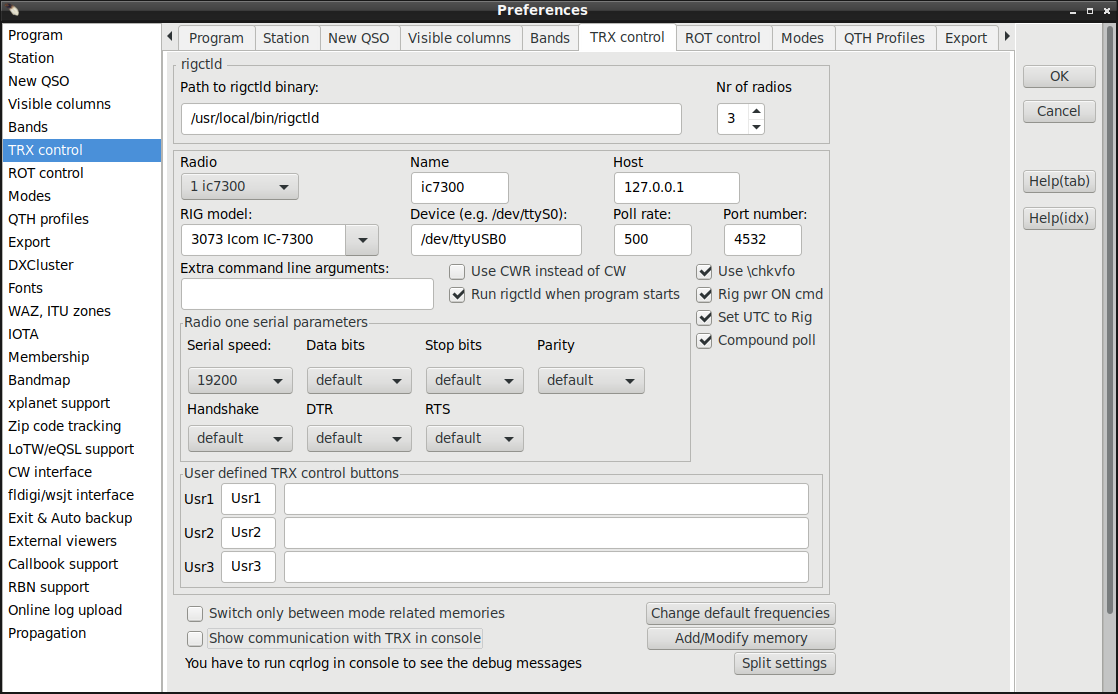
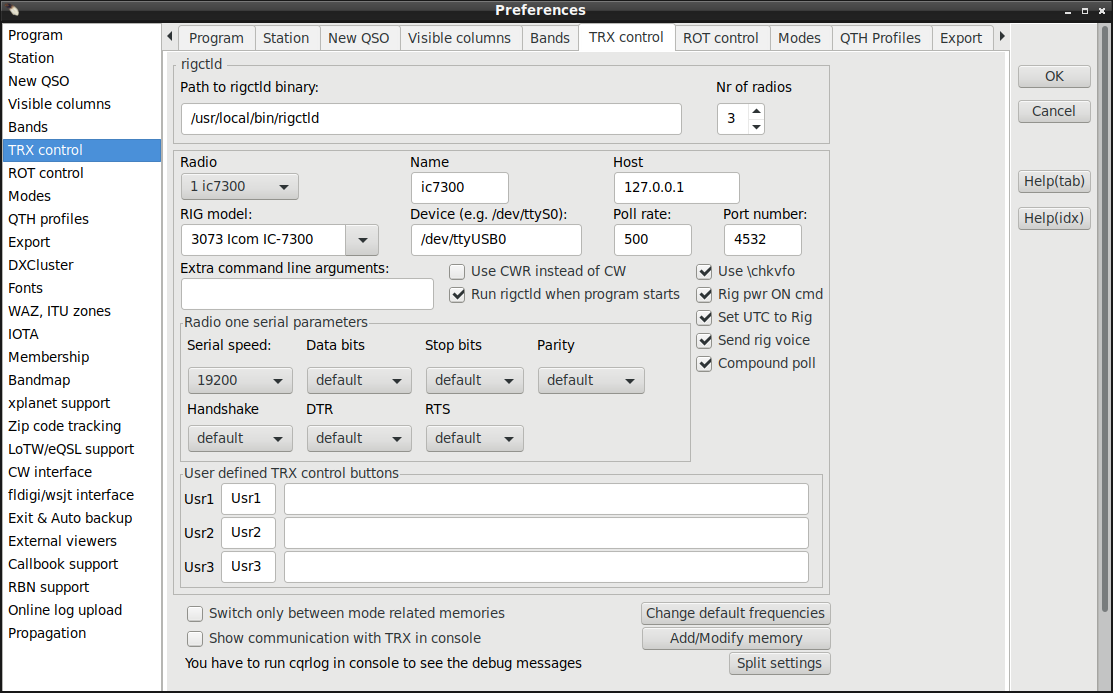
NewQSO+Contest: Use rigctld:\send_voice_mem instead of voice_keyer script if rig supports it

diff --git a/src/changelog.html b/src/changelog.html
@@ -10,6 +10,7 @@
     <strong>Alpha test version of CQRLOG 2.6.0 (118)</strong><br>
     New in this alpha version (not in official version):<br>
     <ul style="list-style: square;text-align:left; color: green;" >
+    <li>NewQSO+Contest: Use rigctld:\send_voice_mem instead of voice_keyer script if rig supports it</li>
     <li>eQSL Import: Checkbox to change Rcvd date to current date -1 after successfull download</li>
     <li>Added HamQTH & Clublog error hanling code by phl0 that can be found from<br>
     https://github.com/ok2cqr/cqrlog/compare/master...phl0:moreDetailedErrorHandlingForOnlineLogs</li> 
